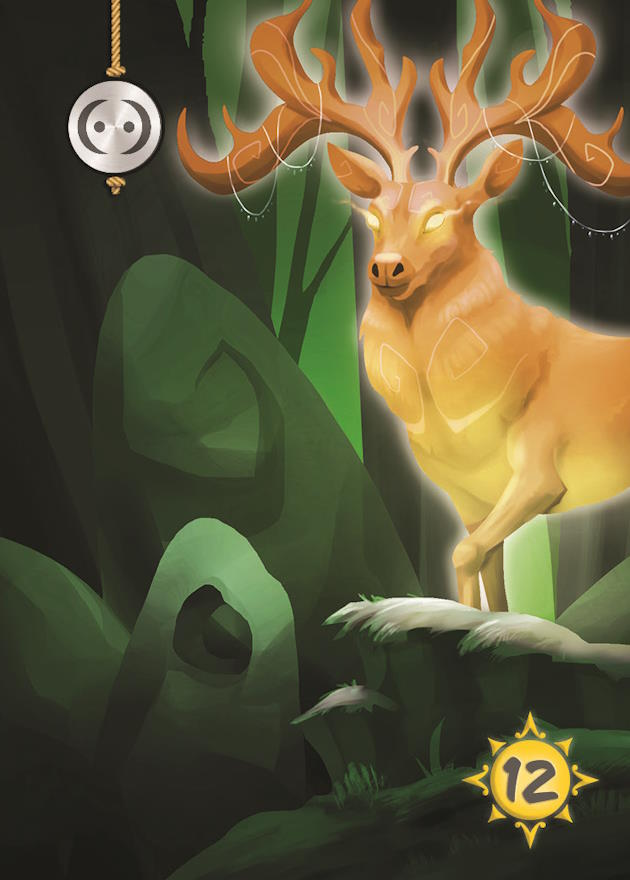
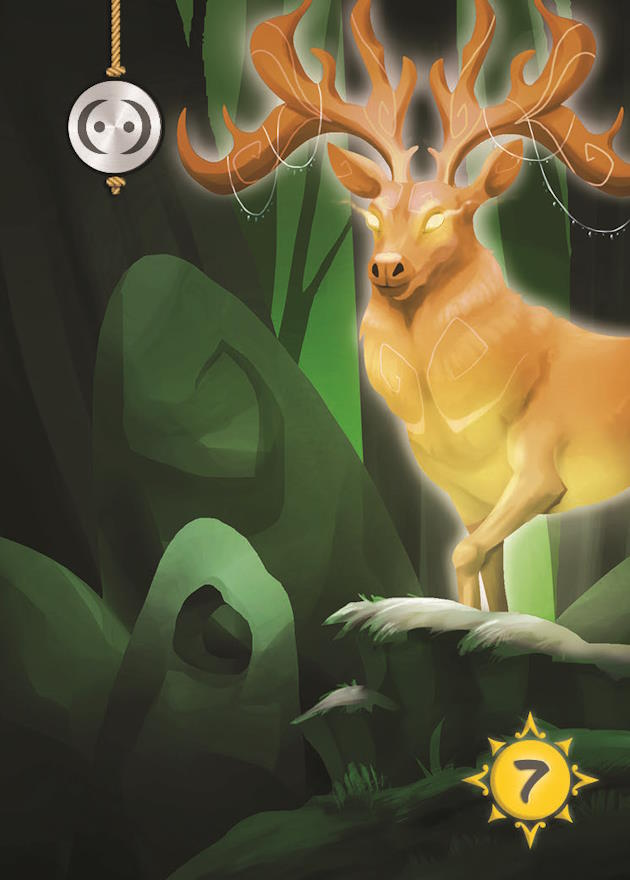
Lower Stag cost

Changed region(s): [[0.7841, 0.8591, 0.9048, 0.9205]]

diff --git a/rules/src/material/Animal.ts b/rules/src/material/Animal.ts
@@ -77,7 +77,7 @@ export const animalProperties: Record<Animal, CardPattern> = {
   [Animal.Stag]: {
     type: AnimalType.Gregarious,
     elements: {},
-    cost: 12
+    cost: 7
   },
   [Animal.SummerVaran]: {
     type: AnimalType.Solitary,
